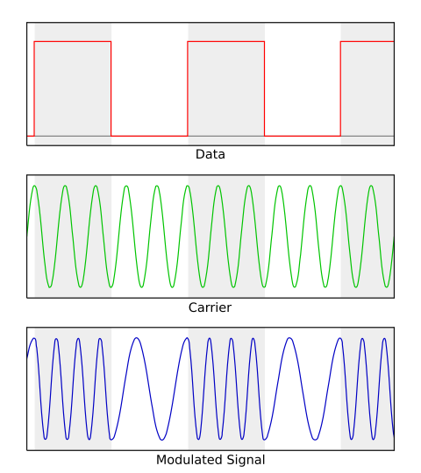
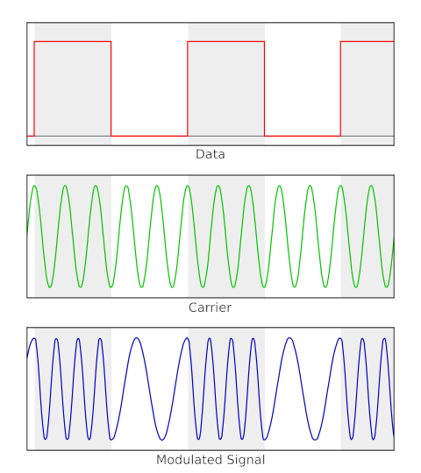
feat: Reword FSK introduction a bit
- Change navigation page order for FSK to appear higher

diff --git a/docs/projects/fsk-comms.md b/docs/projects/fsk-comms.md
@@ -3,7 +3,7 @@ title: FSK Communication
 layout: default
 math: mathjax
 parent: Projects
-nav_order: 7
+nav_order: 5
 ---
 
 # FSK Communication
@@ -15,53 +15,57 @@ nav_order: 7
 
 ## Introduction
 
-Telecommunications are undeniably fascinating, yet they have historically been fraught with significant technical challenges. For decades, the field has been almost exclusively dominated by Radio Frequency (RF) and electromagnetic waves. While effective, these methods often face limitations in specific environments, such as interference or higher attenuation (in salty water, for example). This leads to an interesting alternative: why not use ultrasound as a communication medium instead? By shifting our foucs from the electromagnetic spectrum to acoustic propagation, we can develop alternative commucation systems that are both innovative and remarkably efficient for shot-range, low-interference data exchange. 
+Telecommunications is undeniably fascinating, yet it has historically faced significant technical challenges. For decades, wireless communication has been dominated by radio‑frequency (RF) electromagnetic waves. While effective, RF can be limited in certain contexts, such as severe attenuation in saltwater or heavy interference in crowded spectrum. This leads to an interesting alternative: why not use ultrasound as a communication medium instead? By shifting from electromagnetic to acoustic propagation, we can develop systems that are well suited to short‑range, EMI‑resilient data exchange in specific environments, though acoustic links have their own constraints on range and bandwidth.
 
-Since we are still dealing with waves, the same fundamental principles of signal modulation apply. Traditionally, two primary methods have been established to enconde information into a carrier wave:
-* **Amplitude Modulation (AM):** This technique involves varying the strength or amplitude of the signal. While simple to implement, it is highly susceptible to noise and atmospheric interference, which can easily distort the data
-* **Frequency Modulation (FM):** Instead of changing the amplitude, this method varies the frequency of the carrier wave. It offers much greater resilience against background noise and signal fading. 
+Since we are still dealing with waves, the same fundamental principles of signal modulation apply. In digital communication, three primary classes are commonly used to encode information onto a carrier:
+- **Amplitude Shift Keying (ASK):** Varies the signal's amplitude. Simple to implement but susceptible to ambient acoustic noise and amplitude fading.
+- **Frequency Shift Keying (FSK):** Varies the carrier frequency among discrete tones. Often more resilient to amplitude fluctuations and certain noise/multipath conditions, at the cost of bandwidth.
+- **Phase Shift Keying (PSK):** Varies the signal's phase. Can be spectrally efficient but may be sensitive to phase distortion.
 
-Our main focus will be on the latter, given that frequency-based modulation is inherently more robust for acoustic environments, as it effectively filters out most ambient noise and ensures a more reliable decoding process. Specifically, we will implement Frequency Shift Keying (FSK) as our modulation scheme. This method relies on a fundamental wave known as the 'carrier.' In our system, we assign the bit '0' to this base frequency. To represent a bit '1,' we shift the signal to a slightly higher frequency. As illustrated in the diagram, data is transmitted by switching the frequency of the acoustic wave between these two predefined values. By sending these controlled bit sequences, we can effectively encode and transmit complex data and text through ultrasonic waves.
+Our main focus will be on FSK, which is often robust for acoustic links under typical noisy conditions. Specifically, we will implement binary FSK (BFSK). This method uses two carrier frequencies: we assign the bit '0' to a base frequency $$f_0$$ and the bit '1' to a higher frequency $$f_1$$, separated by a defined spacing $$Δf$$. As illustrated in the diagram, data is transmitted by switching the frequency of the acoustic wave between these two predefined values. By sending these controlled bit sequences, we can effectively encode and transmit data and text through ultrasonic waves.
 
 <img src="{{site.baseurl}}/assets/images/fsk_carrier_representation.png"/>
 {: .text-center}
 
-_Binary FSK signal generation_
+_Binary FSK (BFSK) signal generation_
 {: .text-center}
 
 ### Goertzel Algorithm
+To decode these frequency shifts, we need an efficient way to detect a small set of tones in a continuous stream of acoustic data. While the Fast Fourier Transform (FFT) is the standard tool for wideband spectral analysis, it is not the most efficient choice when only a few specific frequencies are of interest. In such cases, the Goertzel algorithm is more efficient, as it directly evaluates selected Discrete Fourier Transform (DFT) bins.
 
-To decode these frequency shifts, we require an efficient method to detect specific tones within a continuous stream of acoustic data. While the Fast Fourier Transform (FFT) is the most common tool for spectral analysis, it is computationally expensive because it analyzes the entire frequency spectrum at once.
+Our system uses the Goertzel algorithm to evaluate the two predetermined tones used by BFSK ($$f_0$$ for bit '0' and $$f_1$$ for bit '1'). Goertzel computes the energy of a specific frequency component over a block of samples, enabling direct symbol detection.
 
-Instead, our system utilizes the Goertzel Algorithm. Unlike the FFT, Goertzel is a digital filter that focuses exclusively on pre-selected frequencies. We will select the frequencies so that the difference provides us with enough bandwidth to detect each tone without interference, making the algorithm significantly faster and more resource-efficient for embedded systems. By calculating the energy of only these two specific frequency components, the embedded system could determine in real-time whether a bit '0' or a bit '1' is being received, effectively filtering out ambient noise and ensuring high-speed, reliable communication.
+Let $$F_s$$ be the sampling rate and $$N$$ the number of samples per symbol (bit) window. For a tone at frequency $$f$$, define:
 
-To implement this algorithm, we separate it into a specialized two-stage digital filter. The first stage is a second-order **IIR filter** that process the ADC input sequence **x[n]** to calculate an intermediate value **s[n]**. This is highly efficient as it only requires one multiplication per sample:
+$$\omega = 2\pi \frac{f}{F_s}$$
+
+The Goertzel algorithm can be viewed as a two-stage digital filter. The first stage is a second-order **IIR filter** that processes the discrete-time input sequence $$x[n]$$ to compute an intermediate state $$s[n]$$:
 
 $$
 \begin{equation}
-s[n] = x[n] + 2 \cos(\omega_0) \cdot s[n - 1] - s[n - 2]
+s[n] = x[n] + 2 \cos(\omega) \cdot s[n - 1] - s[n - 2]
 \label{eq:goertzel}
 \end{equation}
 $$
 
-Where $$s[-1] = s[-2] = 0 $$ at the start of each bit window. After processing the 
- samples, the second stage (a **FIR filter**) computes the final power of the frequency components:
+where $$s[-1] = s[-2] = 0$$ at the start of each symbol window. This structure is computationally efficient, requiring only one multiplication per sample per target frequency.
+
+After processing the block, the second stage (effectively a **FIR filter**) computes the power of the frequency component:
 
 $$
 \begin{equation}
-Power = s[n]^2 + s[n - 1]^2 - s[n] \cdot s[n - 1] \cdot 2\cos(\omega_0)
+Power = s[n]^2 + s[n - 1]^2 - 2\cos(\omega) \cdot s[n] \cdot s[n - 1]
 \label{eq:power}
 \end{equation}
 $$
 
-The system then compares the resulting Power values, decoding the bit as '0' or '1' based on the frequency component which exhibits the highest energy.
+The system compares the power values for $$f_0$$ and $$f_1$$ and decodes the bit based on which tone has higher energy.
 
 ## Hardware Setup
 
 To perform this modulated communication, the essential required components are a transmitter and a receiver. For this project, we use two SensEdu boards based on the Arduino GIGA R1 WIFI:  
 
 * **Transmitter (Tx):** Uses an ultrasonic **tranducer**{: .text-green-000} to generate and emit the modulated acoustic waves.
-
 * **Receiver (Rx):** Captures the incoming signal using the onboard **MEMS microphones**{: .text-green-000}.
 
 <img src="{{site.baseurl}}/assets/images/two_boards_fsk.jpeg" width="500"/>
@@ -70,7 +74,7 @@ To perform this modulated communication, the essential required components are a
 The two boards are placed directly in front of each other to ensure a direct transmission path and to minimize signal attenuation caused by the environment. For our tests, they were separated by a distance of 40 to 100 cm, providing a stable channel for data exchange.
 
 {: .NOTE}
-The communication between the two boards is completely wireless, so only USB / USB-C connection to the computer is needed.
+The communication between the two boards is completely wireless, each boards needs only USB / USB-C connection to the computer.
 
 
 ## Software Implementation
@@ -84,7 +88,7 @@ The transmitter’s primary role is to **convert digital data into a continuous 
 
 Due to the finite size of the hardware memory buffer, the maximun message length is set to **30 characters**. This limit is calculated considering the **200 samples** allocated per bit; this duration provides the ultrasonic transducer with sufficient time to stabilize and adapt to each frequency shift, ensuring a clean transition between logic states. With a 480 kHz sampling rate and 200 samples per bit, the frequency resolution is 2.4 kHz. We therefore select tones that land exactly on Goertzel bin centers, 31.2 kHz (13 × 2.4 kHz) and 36.0 kHz (15 × 2.4 kHz), while keeping them near the transducer’s ≈33 kHz resonance to maximize acoustic efficiency and detection robustness.
 
-The system uses SENSEDU_DAC_MODE_BURST_WAVE to transmit tone bursts. By connecting the dma_buffer directly to the DAC through DMA, the transmission stays stable and avoids any gaps or delays between the bits. For more information about DAC configurations, go to [DAC_Burst_Sine]({% link library/dac.md %}#dac_burst_sine).
+The system uses `SENSEDU_DAC_MODE_BURST_WAVE` to transmit tone bursts. By connecting the `dma_buffer` directly to the DAC through DMA, the transmission stays stable and avoids any gaps or delays between the bits. For more information about DAC configurations, go to [DAC_Burst_Sine]({% link library/dac.md %}#dac_burst_sine).
 
 ```c
 // Maximum number of characters to send between separate messages
@@ -102,7 +106,8 @@ const uint16_t PREAMBLE_LENGTH = 4;
 const uint16_t ENDLINE_LENGTH = 2;
 
 // DMA buffer size
-const uint16_t MAX_LUT_SIZE = (MAX_MESSAGE_LENGTH + PREAMBLE_LENGTH + ENDLINE_LENGTH) * SAMPLES_PER_CHARACTER; 
+const uint16_t MAX_LUT_SIZE =
+        (MAX_MESSAGE_LENGTH + PREAMBLE_LENGTH + ENDLINE_LENGTH) * SAMPLES_PER_CHARACTER; 
 
 volatile SENSEDU_DAC_BUFFER(dma_buffer, MAX_LUT_SIZE);
 SensEdu_DAC_Settings dac_settings = {

diff --git a/docs/projects/weather-station.md b/docs/projects/weather-station.md
@@ -3,7 +3,7 @@ title: Weather Station
 layout: default
 math: mathjax
 parent: Projects
-nav_order: 6
+nav_order: 7
 ---
 
 # Weather Station

diff --git a/docs/projects/emg.md b/docs/projects/emg.md
@@ -3,7 +3,7 @@ title: EMG BioInputs
 layout: default
 parent: Projects
 math: mathjax
-nav_order: 5
+nav_order: 6
 ---
 
 # EMG BioInputs
